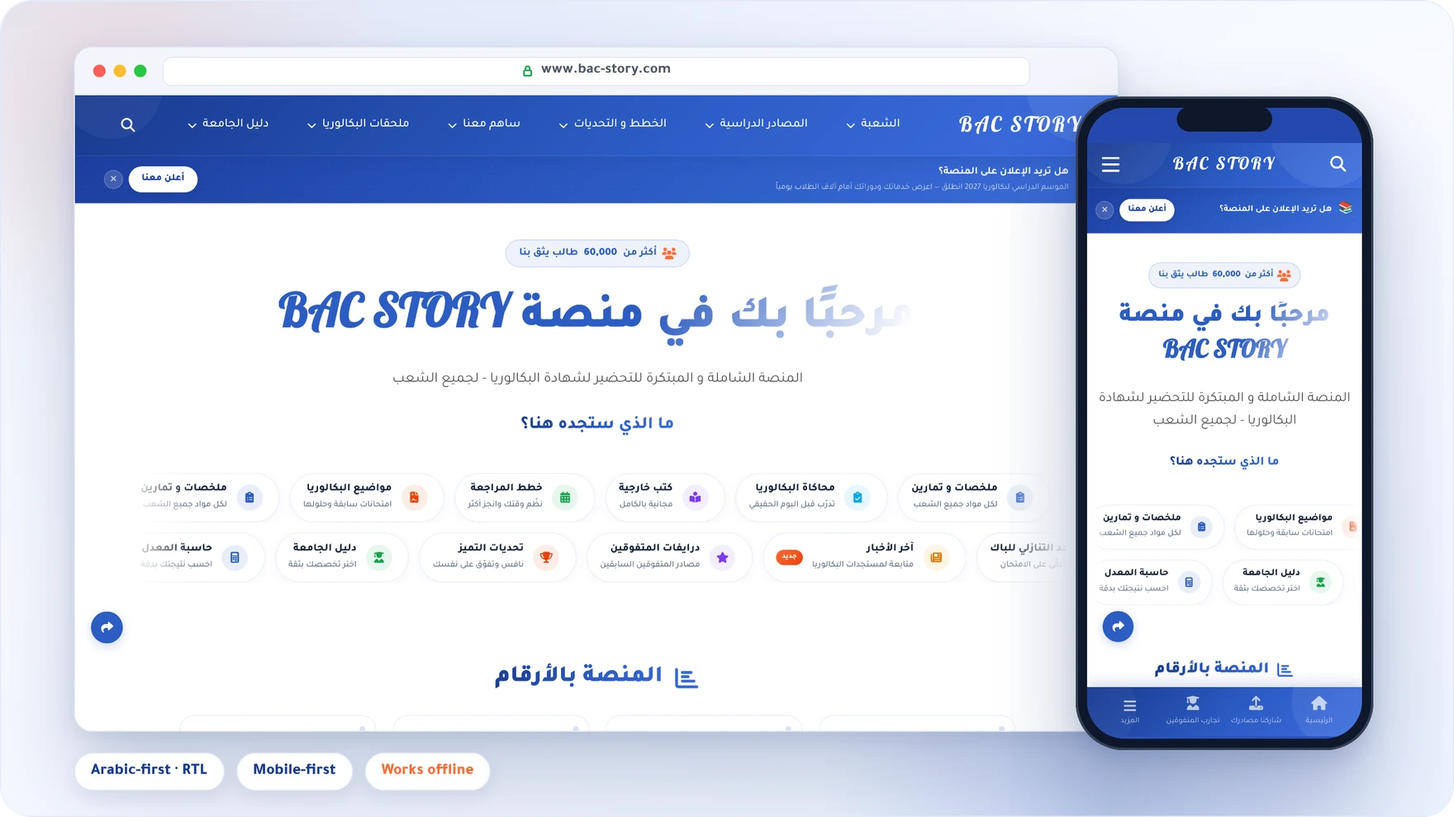
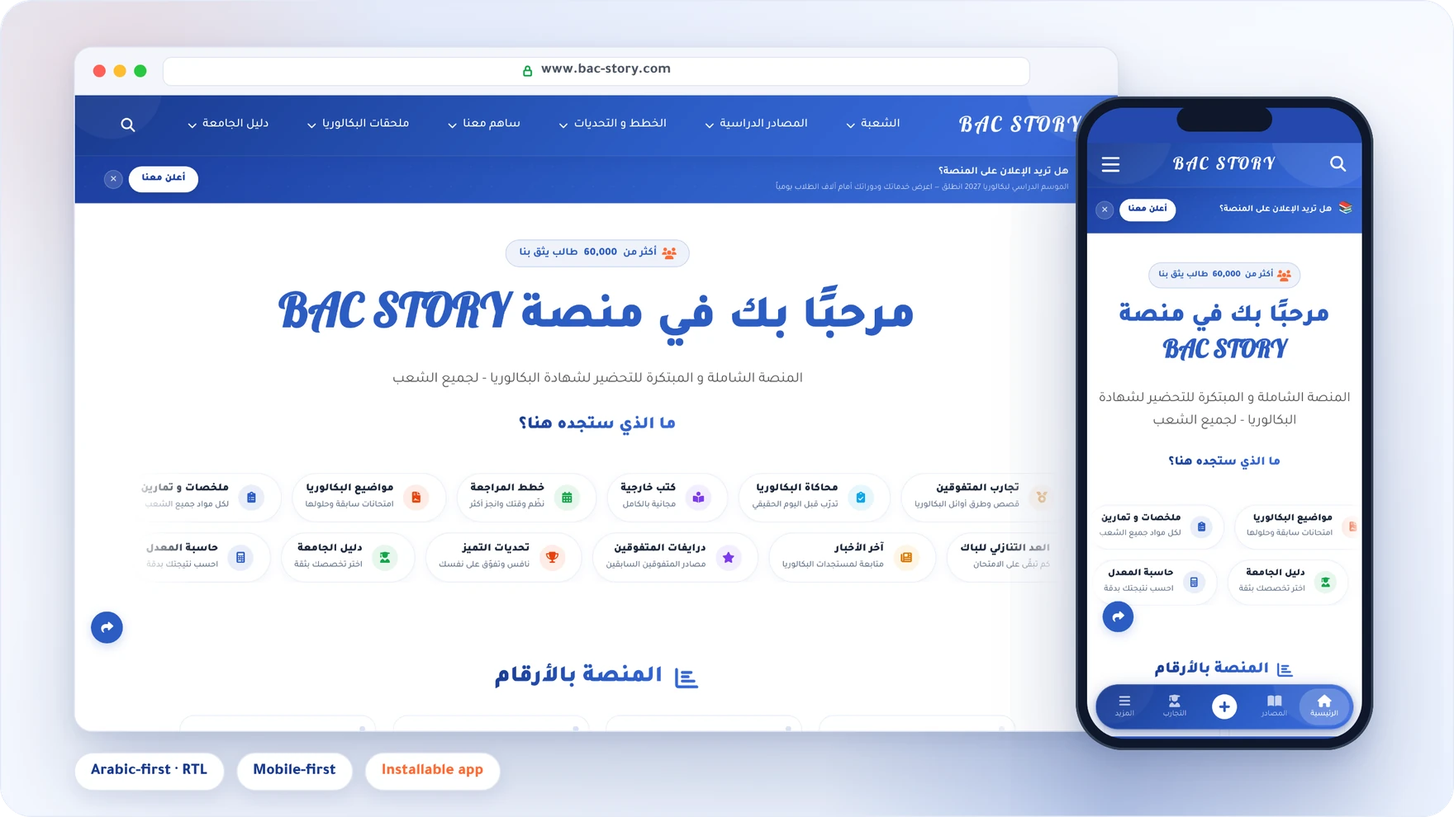
README: refreshed images and text after the performance work
- Banner: the BAC STORY wordmark is all white.
- Numbers card: redrawn in the site's own stats-card style, with current counts
  (2,681 pages, 2,553 in the sitemap, 2,695 search entries); now stats.webp (63 KB).
- Preview: new homepage screenshots with the new mobile bottom bar;
  tag "Installable app" instead of "Works offline".
- The image sources load the site's own font files (src/fonts.css), not Google Fonts.
- Text: no offline claim, fonts cached 1 year, hook also blocks Google Fonts,
  workflow listed, stamping step in the new-page checklist, 1,500+ resource pages,
  roadmap items for style.css and the Drive viewer.

Claude-Session: https://claude.ai/code/session_0157jKP8t2MP2FQraygW7T4S

diff --git a/.github/assets/src/stats.html b/.github/assets/src/stats.html
@@ -1,70 +1,73 @@
 <!doctype html>
-<!-- README "by the numbers" card. Rendered to ../stats.png (1280 wide at 2x, then 1760 wide). See README.md, "Maintaining this README"
-     Update the numbers here, then re-render. Sources: Search Console, GA4, Bing Webmaster Tools, repo. -->
+<!-- README "by the numbers" card. Rendered to ../stats.webp (1280 wide at 2x, then 1760 wide). See README.md, "Maintaining this README"
+     The tiles copy the site's own stats cards (.crc-stat in style.css: white card, light blue border,
+     gradient number, grey label, pulse dot). Update the numbers here, then re-render.
+     Sources: Search Console, GA4, Bing Webmaster Tools, repo. -->
 <html lang="en">
 <head>
 <meta charset="utf-8">
-<link rel="stylesheet" href="https://fonts.googleapis.com/css2?family=Tajawal:wght@400;500;700;800;900&family=Pattaya&display=swap">
+<link rel="stylesheet" href="fonts.css">
 <style>
-  :root { --blue-900:#142c6e; --blue-800:#1a3a8f; --blue-600:#2c5cc3; --blue-500:#3b6fd8; --orange:#ff6b35;
-          --ink:#1f2937; --muted:#6b7280; --line:#e6ebf5; --green:#16a34a; }
+  :root { --muted:#64748b; --line:rgba(44,92,197,.1); --green:#16a34a; }
   * { box-sizing: border-box; margin: 0; padding: 0; }
   html, body { width: 1280px; background: transparent; }
-  .card { width: 1280px; padding: 44px 48px 40px; border-radius: 28px; background: #ffffff;
-    border: 1px solid var(--line); font-family: 'Tajawal', sans-serif; color: var(--ink); position: relative; overflow: hidden; }
-  .card::before { content: ''; position: absolute; right: -90px; top: -120px; width: 300px; height: 300px; border-radius: 50%;
-    background: radial-gradient(circle, rgba(44,92,195,.10), rgba(44,92,195,0) 70%); }
-  .head { display: flex; align-items: baseline; justify-content: space-between; margin-bottom: 26px; }
-  .head h2 { font-size: 30px; font-weight: 900; color: var(--blue-800); letter-spacing: .2px; }
-  .head h2 .ar { font-weight: 800; color: var(--blue-600); margin-left: 12px; font-size: 26px; }
-  .head .date { font-size: 15px; font-weight: 700; color: var(--muted); padding: 7px 14px 6px; border-radius: 999px; background: #f3f6fc; border: 1px solid var(--line); }
-  .label { font-size: 13px; font-weight: 800; letter-spacing: 1.6px; text-transform: uppercase; color: var(--muted); margin: 6px 0 12px; display: flex; align-items: center; gap: 10px; }
-  .label::after { content: ''; flex: 1; height: 1px; background: var(--line); }
-  .grid { display: grid; grid-template-columns: repeat(4, 1fr); gap: 16px; margin-bottom: 22px; }
-  .grid:last-child { margin-bottom: 4px; }
-  .tile { position: relative; padding: 22px 22px 20px; border-radius: 20px; background: linear-gradient(180deg, #ffffff, #f7f9fe);
-    border: 1px solid var(--line); box-shadow: 0 8px 24px rgba(44,92,195,.08); }
-  .tile .icon { width: 40px; height: 40px; border-radius: 12px; display: grid; place-items: center; margin-bottom: 14px;
-    background: rgba(44,92,195,.10); color: var(--blue-600); }
-  .tile .icon svg { width: 22px; height: 22px; }
-  .tile.o .icon { background: rgba(255,107,53,.12); color: var(--orange); }
-  .num { font-size: 40px; font-weight: 900; color: var(--blue-800); line-height: 1; letter-spacing: -.5px; }
-  .tile.o .num { color: var(--orange); }
-  .txt { font-size: 16px; font-weight: 700; color: var(--ink); margin-top: 8px; }
-  .sub { font-size: 13.5px; font-weight: 500; color: var(--muted); margin-top: 3px; }
-  .up { position: absolute; top: 20px; right: 18px; font-size: 13px; font-weight: 800; color: var(--green);
-    background: rgba(22,163,74,.10); padding: 5px 9px 4px; border-radius: 999px; }
+  .card { width: 1280px; padding: 44px 48px 44px; border-radius: 28px; background: #f8faff;
+    border: 1px solid #e6ebf5; font-family: 'Tajawal', sans-serif; color: #1e293b; position: relative; overflow: hidden; }
+
+  /* section title, like the site's "المنصة بالأرقام" heading */
+  .head { display: flex; align-items: center; justify-content: space-between; margin-bottom: 30px; }
+  .title { display: flex; align-items: center; gap: 14px; }
+  .title svg { width: 34px; height: 34px; color: #2c5cc5; }
+  .title h2 { font-size: 34px; font-weight: 900; line-height: 1.25; padding-top: 4px;
+    background: linear-gradient(120deg, #1a3a8f 0%, #2c5cc5 50%, #3d6ee0 100%);
+    -webkit-background-clip: text; background-clip: text; color: transparent; }
+  .title .ar { margin-left: 12px; }
+  .date { font-size: 15px; font-weight: 700; color: var(--muted); padding: 7px 14px 6px; border-radius: 999px; background: #fff; border: 1.5px solid var(--line); }
+
+  .label { font-size: 13px; font-weight: 800; letter-spacing: 1.6px; text-transform: uppercase; color: var(--muted); margin: 4px 0 14px; display: flex; align-items: center; gap: 10px; }
+  .label::after { content: ''; flex: 1; height: 1px; background: #e2e8f4; }
+  .grid { display: grid; grid-template-columns: repeat(4, minmax(0, 1fr)); gap: 22px; margin-bottom: 26px; }
+  .grid:last-child { margin-bottom: 0; }
+
+  /* the site's .crc-stat card */
+  .stat { position: relative; overflow: hidden; text-align: center; padding: 34px 18px 28px; background: #fff;
+    border: 1.5px solid var(--line); border-radius: 20px; }
+  .stat::before { content: ''; position: absolute; top: 0; right: 8%; width: 40%; height: 100%;
+    background: linear-gradient(105deg, transparent 40%, rgba(44,92,197,.05) 50%, transparent 60%); }
+  .stat::after { content: ''; position: absolute; top: 14px; right: 14px; width: 8px; height: 8px; border-radius: 50%;
+    background: rgba(44,92,197,.18); }
+  .num { font-size: 45px; font-weight: 900; line-height: 1; padding: .15em 0; margin: -.15em 0 calc(8px - .15em);
+    background: linear-gradient(90deg, #1a3a8f, #2c5cc5, #3d6ee0, #2c5cc5, #1a3a8f); background-size: 200% 100%;
+    -webkit-background-clip: text; background-clip: text; color: transparent; font-variant-numeric: tabular-nums; }
+  .lbl { display: block; font-size: 15.5px; font-weight: 700; color: var(--muted); line-height: 1.4; }
+  .sub { display: block; font-size: 13px; font-weight: 500; color: #94a3b8; line-height: 1.4; margin-top: 4px; }
+  .up { color: var(--green); font-weight: 800; }
 </style>
 </head>
 <body>
 <div class="card">
   <div class="head">
-    <h2>By the numbers <span class="ar">المنصة بالأرقام</span></h2>
+    <div class="title">
+      <svg viewBox="0 0 24 24" fill="none" stroke="currentColor" stroke-width="2.4" stroke-linecap="round"><path d="M4 4v16h16"/><path d="M8 15v-3M12 15V8M16 15v-5"/></svg>
+      <h2>By the numbers <span class="ar">المنصة بالأرقام</span></h2>
+    </div>
     <span class="date">October 2026</span>
   </div>
 
   <div class="label">The platform</div>
   <div class="grid">
-    <div class="tile"><div class="icon"><svg viewBox="0 0 24 24" fill="none" stroke="currentColor" stroke-width="2" stroke-linecap="round" stroke-linejoin="round"><path d="M14 3H7a2 2 0 0 0-2 2v14a2 2 0 0 0 2 2h10a2 2 0 0 0 2-2V8z"/><path d="M14 3v5h5M9 13h6M9 17h6"/></svg></div>
-      <div class="num">2,678</div><div class="txt">HTML pages</div><div class="sub">2,552 indexable URLs in the sitemap</div></div>
-    <div class="tile o"><div class="icon"><svg viewBox="0 0 24 24" fill="none" stroke="currentColor" stroke-width="2" stroke-linecap="round" stroke-linejoin="round"><path d="M4 19.5V5a2 2 0 0 1 2-2h12v18H6a2 2 0 0 1-2-1.5z"/><path d="M8 7h6M8 11h6"/></svg></div>
-      <div class="num">7,300+</div><div class="txt">PDF documents</div><div class="sub">summaries, exams, books, solutions</div></div>
-    <div class="tile"><div class="icon"><svg viewBox="0 0 24 24" fill="none" stroke="currentColor" stroke-width="2" stroke-linecap="round" stroke-linejoin="round"><path d="M22 10 12 5 2 10l10 5 10-5z"/><path d="M6 12v5c3 2 9 2 12 0v-5"/></svg></div>
-      <div class="num">260</div><div class="txt">University guides</div><div class="sub">one page per speciality / school</div></div>
-    <div class="tile"><div class="icon"><svg viewBox="0 0 24 24" fill="none" stroke="currentColor" stroke-width="2" stroke-linecap="round" stroke-linejoin="round"><circle cx="11" cy="11" r="7"/><path d="m21 21-4.3-4.3"/></svg></div>
-      <div class="num">2,694</div><div class="txt">Search entries</div><div class="sub">instant Arabic-aware site search</div></div>
+    <div class="stat"><div class="num">2,681</div><span class="lbl">HTML pages</span><span class="sub">2,553 indexable URLs in the sitemap</span></div>
+    <div class="stat"><div class="num">7,300+</div><span class="lbl">PDF documents</span><span class="sub">summaries, exams, books, solutions</span></div>
+    <div class="stat"><div class="num">260</div><span class="lbl">University guides</span><span class="sub">one page per speciality / school</span></div>
+    <div class="stat"><div class="num">2,695</div><span class="lbl">Search entries</span><span class="sub">instant Arabic-aware site search</span></div>
   </div>
 
   <div class="label">Audience · last 28 days</div>
   <div class="grid">
-    <div class="tile"><span class="up">▲ 41%</span><div class="icon"><svg viewBox="0 0 24 24" fill="none" stroke="currentColor" stroke-width="2" stroke-linecap="round" stroke-linejoin="round"><path d="M3 17l6-6 4 4 8-8"/><path d="M14 7h7v7"/></svg></div>
-      <div class="num">42.6K</div><div class="txt">Google clicks</div><div class="sub">850K impressions · avg. position 5.5</div></div>
-    <div class="tile o"><div class="icon"><svg viewBox="0 0 24 24" fill="none" stroke="currentColor" stroke-width="2" stroke-linecap="round" stroke-linejoin="round"><circle cx="9" cy="8" r="4"/><path d="M2 21c0-4 3-6 7-6s7 2 7 6"/><path d="M16 4a4 4 0 0 1 0 8M22 21c0-3-2-5-4-5.6"/></svg></div>
-      <div class="num">32.6K</div><div class="txt">Visitors</div><div class="sub">62.5K sessions · 2m 29s each</div></div>
-    <div class="tile"><div class="icon"><svg viewBox="0 0 24 24" fill="none" stroke="currentColor" stroke-width="2" stroke-linecap="round" stroke-linejoin="round"><rect x="7" y="2" width="10" height="20" rx="2"/><path d="M11 18h2"/></svg></div>
-      <div class="num">82%</div><div class="txt">On mobile</div><div class="sub">96% of searches from Algeria</div></div>
-    <div class="tile"><div class="icon"><svg viewBox="0 0 24 24" fill="none" stroke="currentColor" stroke-width="2" stroke-linecap="round" stroke-linejoin="round"><path d="M12 3l2.5 5.5L20 9l-4 4 1 6-5-3-5 3 1-6-4-4 5.5-.5z"/></svg></div>
-      <div class="num">2,570</div><div class="txt">Pages on Google</div><div class="sub">+ 3,268 on Bing · cited by Copilot</div></div>
+    <div class="stat"><div class="num">42.6K</div><span class="lbl">Google clicks</span><span class="sub"><span class="up">▲ 41%</span> · 850K impressions · position 5.5</span></div>
+    <div class="stat"><div class="num">32.6K</div><span class="lbl">Visitors</span><span class="sub">62.5K sessions · 2m 29s each</span></div>
+    <div class="stat"><div class="num">82%</div><span class="lbl">On mobile</span><span class="sub">96% of searches from Algeria</span></div>
+    <div class="stat"><div class="num">2,570</div><span class="lbl">Pages on Google</span><span class="sub">+ 3,268 on Bing · cited by Copilot</span></div>
   </div>
 </div>
 </body>

diff --git a/.github/assets/src/fonts.css b/.github/assets/src/fonts.css
@@ -1,0 +1,12 @@
+/* The site's own font files, for rendering the README images (see README, "Maintaining this README"). */
+@font-face { font-family: 'Tajawal'; font-weight: 400; font-display: block; src: url(../../../fonts/tajawal/tajawal-arabic-400.woff2) format('woff2'); unicode-range: U+0600-06FF,U+0750-077F,U+08A0-08FF,U+FB50-FDFF,U+FE70-FEFC,U+200C-200E; }
+@font-face { font-family: 'Tajawal'; font-weight: 400; font-display: block; src: url(../../../fonts/tajawal/tajawal-latin-400.woff2) format('woff2'); unicode-range: U+0000-00FF,U+0131,U+0152-0153,U+02BB-02BC,U+02C6,U+02DA,U+02DC,U+2000-206F,U+20AC,U+2122,U+2191,U+2193,U+2212,U+2215,U+FEFF,U+FFFD; }
+@font-face { font-family: 'Tajawal'; font-weight: 500; font-display: block; src: url(../../../fonts/tajawal/tajawal-arabic-500.woff2) format('woff2'); unicode-range: U+0600-06FF,U+0750-077F,U+08A0-08FF,U+FB50-FDFF,U+FE70-FEFC,U+200C-200E; }
+@font-face { font-family: 'Tajawal'; font-weight: 500; font-display: block; src: url(../../../fonts/tajawal/tajawal-latin-500.woff2) format('woff2'); unicode-range: U+0000-00FF,U+0131,U+0152-0153,U+02BB-02BC,U+02C6,U+02DA,U+02DC,U+2000-206F,U+20AC,U+2122,U+2191,U+2193,U+2212,U+2215,U+FEFF,U+FFFD; }
+@font-face { font-family: 'Tajawal'; font-weight: 700; font-display: block; src: url(../../../fonts/tajawal/tajawal-arabic-700.woff2) format('woff2'); unicode-range: U+0600-06FF,U+0750-077F,U+08A0-08FF,U+FB50-FDFF,U+FE70-FEFC,U+200C-200E; }
+@font-face { font-family: 'Tajawal'; font-weight: 700; font-display: block; src: url(../../../fonts/tajawal/tajawal-latin-700.woff2) format('woff2'); unicode-range: U+0000-00FF,U+0131,U+0152-0153,U+02BB-02BC,U+02C6,U+02DA,U+02DC,U+2000-206F,U+20AC,U+2122,U+2191,U+2193,U+2212,U+2215,U+FEFF,U+FFFD; }
+@font-face { font-family: 'Tajawal'; font-weight: 800; font-display: block; src: url(../../../fonts/tajawal/tajawal-arabic-800.woff2) format('woff2'); unicode-range: U+0600-06FF,U+0750-077F,U+08A0-08FF,U+FB50-FDFF,U+FE70-FEFC,U+200C-200E; }
+@font-face { font-family: 'Tajawal'; font-weight: 800; font-display: block; src: url(../../../fonts/tajawal/tajawal-latin-800.woff2) format('woff2'); unicode-range: U+0000-00FF,U+0131,U+0152-0153,U+02BB-02BC,U+02C6,U+02DA,U+02DC,U+2000-206F,U+20AC,U+2122,U+2191,U+2193,U+2212,U+2215,U+FEFF,U+FFFD; }
+@font-face { font-family: 'Tajawal'; font-weight: 900; font-display: block; src: url(../../../fonts/tajawal/tajawal-arabic-900.woff2) format('woff2'); unicode-range: U+0600-06FF,U+0750-077F,U+08A0-08FF,U+FB50-FDFF,U+FE70-FEFC,U+200C-200E; }
+@font-face { font-family: 'Tajawal'; font-weight: 900; font-display: block; src: url(../../../fonts/tajawal/tajawal-latin-900.woff2) format('woff2'); unicode-range: U+0000-00FF,U+0131,U+0152-0153,U+02BB-02BC,U+02C6,U+02DA,U+02DC,U+2000-206F,U+20AC,U+2122,U+2191,U+2193,U+2212,U+2215,U+FEFF,U+FFFD; }
+@font-face { font-family: 'Pattaya'; font-weight: 400; font-display: block; src: url(../../../fonts/pattaya/pattaya-latin-400.woff2) format('woff2'); }

diff --git a/.github/assets/src/banner.html b/.github/assets/src/banner.html
@@ -3,7 +3,7 @@
 <html lang="en">
 <head>
 <meta charset="utf-8">
-<link rel="stylesheet" href="https://fonts.googleapis.com/css2?family=Tajawal:wght@400;500;700;800;900&family=Pattaya&display=swap">
+<link rel="stylesheet" href="fonts.css">
 <style>
   :root {
     --blue-900: #142c6e; --blue-800: #1a3a8f; --blue-600: #2c5cc3; --blue-500: #3b6fd8;
@@ -36,8 +36,6 @@
   .eyebrow .dot { width: 8px; height: 8px; border-radius: 50%; background: #3ddc84; box-shadow: 0 0 0 4px rgba(61,220,132,.22); }
   h1 { font-family: 'Pattaya', cursive; font-weight: 400; font-size: 96px; line-height: 1.05;
     margin-top: 18px; letter-spacing: 1px; text-shadow: 0 6px 24px rgba(10,25,70,.35); }
-  h1 .accent { background: linear-gradient(90deg, var(--orange) 0%, var(--orange-2) 100%);
-    -webkit-background-clip: text; background-clip: text; color: transparent; }
   .ar { font-size: 34px; font-weight: 800; direction: rtl; text-align: left; margin-top: 6px; opacity: .97; }
   .en { font-size: 19px; font-weight: 500; margin-top: 10px; color: rgba(255,255,255,.82); }
   .chips { display: flex; gap: 10px; margin-top: 26px; }
@@ -67,7 +65,7 @@
 
     <div class="content">
       <span class="eyebrow"><span class="dot"></span> bac-story.com &nbsp;·&nbsp; Live for BAC 2027</span>
-      <h1>BAC <span class="accent">STORY</span></h1>
+      <h1>BAC STORY</h1>
       <div class="ar">منصة التميز في البكالوريا</div>
       <div class="en">The free, all-in-one preparation platform for the Algerian Baccalaureate.</div>
       <div class="chips">

diff --git a/.github/assets/src/preview.html b/.github/assets/src/preview.html
@@ -5,7 +5,7 @@
 <html lang="en">
 <head>
 <meta charset="utf-8">
-<link rel="stylesheet" href="https://fonts.googleapis.com/css2?family=Tajawal:wght@500;700;800&display=swap">
+<link rel="stylesheet" href="fonts.css">
 <style>
   * { box-sizing: border-box; margin: 0; padding: 0; }
   html, body { width: 1280px; height: 720px; background: transparent; }
@@ -50,7 +50,7 @@
     <img class="shot" src="shots/desktop.png" alt="">
   </div>
   <div class="phone"><div class="notch"></div><div class="screen"><img src="shots/mobile.png" alt=""></div></div>
-  <div class="tag"><span>Arabic-first · RTL</span><span>Mobile-first</span><span class="o">Works offline</span></div>
+  <div class="tag"><span>Arabic-first · RTL</span><span>Mobile-first</span><span class="o">Installable app</span></div>
 </div>
 </body>
 </html>

diff --git a/README.md b/README.md
@@ -8,7 +8,7 @@
 
 [![Website](https://img.shields.io/badge/www.bac--story.com-live-2C5CC3?style=for-the-badge&logo=googlechrome&logoColor=white)](https://www.bac-story.com)
 [![Cloudflare Pages](https://img.shields.io/badge/Cloudflare-Pages-F38020?style=for-the-badge&logo=cloudflarepages&logoColor=white)](https://pages.cloudflare.com)
-[![PWA](https://img.shields.io/badge/PWA-installable-5A0FC8?style=for-the-badge&logo=pwa&logoColor=white)](#-performance--offline)
+[![PWA](https://img.shields.io/badge/PWA-installable-5A0FC8?style=for-the-badge&logo=pwa&logoColor=white)](#-performance--caching)
 [![Telegram](https://img.shields.io/badge/Telegram-@islembacdz-26A5E4?style=for-the-badge&logo=telegram&logoColor=white)](https://t.me/islembacdz)
 
 **Summaries · past exams with solutions · books · revision plans · BAC simulation · grade calculators · university guide**<br>
@@ -25,7 +25,7 @@ for all six streams of the Algerian Baccalaureate, in Arabic, free, on any phone
 
 <br>
 
-<img src=".github/assets/stats.png" alt="By the numbers, October 2026: 2,678 HTML pages (2,552 indexable URLs in the sitemap), 7,300+ PDF documents, 260 university guides, 2,694 search entries. Last 28 days: 42.6K Google clicks (up 41%), 850K impressions, 32.6K visitors, 82% on mobile, 96% of searches from Algeria, 2,570 pages on Google and 3,268 on Bing." width="100%">
+<img src=".github/assets/stats.webp" alt="By the numbers, October 2026: 2,681 HTML pages (2,553 indexable URLs in the sitemap), 7,300+ PDF documents, 260 university guides, 2,695 search entries. Last 28 days: 42.6K Google clicks (up 41%), 850K impressions, 32.6K visitors, 82% on mobile, 96% of searches from Algeria, 2,570 pages on Google and 3,268 on Bing." width="100%">
 
 <br>
 
@@ -35,10 +35,12 @@ for all six streams of the Algerian Baccalaureate, in Arabic, free, on any phone
 Baccalaureate. It puts everything a student needs in one place, organised by stream
 (شعبة) and subject, and it costs nothing to use.
 
-It is a **hand-built static site**: plain HTML, CSS and JavaScript, no framework and no build step.
+It is a **hand-built static site**: plain HTML, CSS and JavaScript, no framework and no bundler (one small script stamps
+cache versions before each commit).
 It is served from **Cloudflare's edge**, the study documents are streamed from **Google Drive**,
 the images come from **Cloudflare R2**, and a few **Pages Functions** handle the forms.
-The result is fast on a cheap phone and a mobile connection, and it keeps working offline.
+The result is fast on a cheap phone and a mobile connection, and it installs as an app.
+Repeat visits load styles, scripts and images from the device cache.
 
 <div align="center">
   <img src=".github/assets/preview.webp" alt="The BAC STORY homepage on a desktop browser and on a phone" width="100%">
@@ -55,7 +57,7 @@ The result is fast on a cheap phone and a mobile connection, and it keeps workin
 ### 📚 Study resources
 Summaries, exercises, mind maps and revision packs for every subject of every stream,
 with a built-in PDF viewer and one-tap download.<br>
-<sub>`/resources/{math,sci,tech,ge,le,lp}` · 1,240+ pages</sub>
+<sub>`/resources/{math,sci,tech,ge,le,lp}` · 1,500+ pages</sub>
 
 ### 📝 BAC exams archive
 Official BAC 2024, 2025 and 2026 papers with solutions, the channel's own trial exams,
@@ -64,7 +66,7 @@ older archives and monthly *excellence topics* (مواضيع التميز) with 
 
 ### 📖 Books
 External books (Bournane, Oqba Ibn Nafi and others) per stream and subject.<br>
-<sub>`/resources/books` · `/oqba` · 390 pages</sub>
+<sub>`/resources/books` · `/oqba` · 390+ pages</sub>
 
 ### 🧭 University guide
 260 speciality and school guides (*grandes écoles*, ENS, medicine, paramedical…),
@@ -179,7 +181,7 @@ flowchart LR
 ├── sitemap.xml  robots.txt            search engines
 ├── llms.txt  llms-full.txt            AI assistants (llmstxt.org)
 ├── search-index.json                  data for the site search
-├── manifest.json  sw.js               installable app and offline cache
+├── manifest.json  sw.js               installable app and asset cache
 ├── app-icon-*.png                     installed-app icons: rounded corners (any) + full-bleed Android versions (maskable)
 ├── fonts/fa/                          the site's own Font Awesome (only the icons it uses)
 ├── fonts/tajawal/  fonts/pattaya/     the text fonts (Google Fonts v12 files, OFL licences inside)
@@ -188,7 +190,9 @@ flowchart LR
 └── scripts/generate-sitemap.py        rebuilds sitemap.xml from the real pages
     scripts/build-fa-subset.py         rebuilds fonts/fa/ from the icons the pages use
     scripts/stamp-versions.py          sets every ?v= to the linked file's content hash
-    .githooks/pre-commit               refuses a commit with stale ?v= links
+    .githooks/pre-commit               refuses a commit with stale ?v= links or a Google Fonts link
+    .github/workflows/check-versions.yml  the same ?v= check on every push
+    .github/assets/src/                the README images (HTML sources)
 ```
 
 <br>
@@ -201,6 +205,7 @@ flowchart LR
 | **Type** | **Tajawal** for all Arabic UI · **Pattaya** for the *BAC STORY* wordmark · Font Awesome 6 icons. All served from `fonts/` (declared at the top of `style.css`), not Google Fonts; the calculator pages also use **Amiri** and **Cairo** from `fonts/amiri-cairo.css`. Tajawal comes in 400/500/700/900: `font-weight: 800` is drawn with the 900 face on purpose (as it always was); only `simulation.html` and `experiences.html` load a real 800. |
 | **Shape** | Rounded cards and pills (radius 8–18 px, pills 999 px), soft blue shadows, gradient hero blocks |
 | **Layout** | Right-to-left, mobile first, with a bottom tab bar on phones |
+| **App icon** | `app-icon-*.png`: rounded corners at 22.37 % of the width (the iOS app-icon shape) on a transparent background, so it looks the same on computers and phones; `app-icon-maskable-*.png` are full-bleed (logo at 80 %) for Android, which cuts its own shape |
 
 All tokens are CSS variables at the top of `style.css` (`--primary-color`, `--secondary-color`, `--radius-*`, `--shadow-*`).
 
@@ -254,12 +259,12 @@ All tokens are CSS variables at the top of `style.css` (`--primary-color`, `--se
 
 <br>
 
-## ✦ Performance & offline
+## ✦ Performance & caching
 
 | Asset | Browser cache |
 |---|---|
 | Site images (`png`, `jpg`, `webp`, `svg`…) | 1 year, `immutable` |
-| Font Awesome (`fonts/fa/`) | 1 year, `immutable` (versioned by `build-fa-subset.py`) |
+| Fonts (`fonts/`: Font Awesome, Tajawal, Pattaya, Amiri, Cairo) | 1 year, `immutable` (a changed font gets a new file name or `?v=`) |
 | CSS, JS, navbar/footer/search, `search-index.json` | 1 week (every link carries `?v=<content hash>`) |
 | HTML pages | always revalidated, so new content shows at once |
 | `sw.js` | never cached |
@@ -267,6 +272,41 @@ All tokens are CSS variables at the top of `style.css` (`--primary-color`, `--se
 The **service worker** (`sw.js`) never touches page navigations. It caches CSS, JS, images and
 components the first time a page uses them, serves them from that cache afterwards and refreshes
 them in the background. That makes repeat visits instant and helps on a weak connection.
+
+- Nothing is downloaded in advance (no precache list): files are cached when a page first asks for them.
+- When a new `?v=` version of a file is cached, the older versions of that file are deleted, so the
+  cache keeps one copy per file.
+- `/api/` and `search-index.json` (1.8 MB, only fetched when someone searches) are left to the browser.
+- After changing `sw.js` itself, raise `CACHE_NAME` (`bac-story-v34` → `v35`): the old cache is then deleted.
+
+> [!CAUTION]
+> **Images and fonts are cached for a year and never re-checked.** To change one, give the new file
+> a **new name** (as the app icons did: `icon-192.png` → `app-icon-192.png`) and add a `301` from the
+> old name in `_redirects`. Overwriting a file under the same name leaves visitors with the old one.
+
+### Layout stability and animations
+
+These rules took the desktop homepage from CLS 0.39 to 0.04 and the mobile one from 0.26 to 0.001.
+Keep them when changing the shared parts:
+
+| Rule | Where |
+|---|---|
+| The ad strip's height (52 px) is reserved from the first paint (`body` padding 127 px = navbar 75 + strip 52). When no strip is shown, `html.ad-strip-off` gives the room back. Change `AD_H` in `shared.js` and the padding together. | `style.css`, `shared.js` `injectAdStrip`, the inline loader script |
+| The homepage feature cards stay hidden until the fonts are ready (`.fonts-ok`, 3 s at the latest), so the ticker doesn't jump when Tajawal arrives. | `index.html` |
+| Gradient text (`background-clip: text`) gets `padding: .15em 0; margin: -.15em 0 …` so the tops of the digits and Arabic letters aren't cut off on iPhone. | `.crc-stat-num` and similar in `style.css` |
+| Animations move with `transform` (`translateX`, `scaleX`) and `opacity` only, never `width`/`left`/`right`, so they run on the GPU. | `style.css` |
+| Endless background effects (title shine, stats gradient, skeleton cards) are paused while the loader covers the screen. | `body:has(> #page-loader:not(.loader-hiding))` in `style.css` |
+
+<details>
+<summary><b>Tried and dropped</b> (measured, made things worse)</summary>
+<br>
+
+- **Preloading the font files**: they competed with `style.css` and delayed the first paint on mobile.
+- **Inlined critical CSS with `style.css` loaded later** (branch `perf-a`): faster first paint, but the
+  navbar and section headers then appeared after the content and moved it (CLS 0.24–0.31 on PDF pages).
+- **Delaying Google Tag Manager**: not done, Analytics must see every visit.
+
+</details>
 
 > [!IMPORTANT]
 > After editing any CSS, JS, `navbar.html` / `footer.html` / `search.html` or `search-index.json`,
@@ -321,7 +361,9 @@ python scripts/build-fa-subset.py
 3. Link to it from its parent page with a real `<a href>` (not `onclick`).
 4. Add it to `search-index.json` so the site search finds it.
 5. Run `scripts/generate-sitemap.py`, and add it to `llms.txt` if it is a main page.
+   Don't add a Google Fonts link: the fonts come from `style.css` (the pre-commit hook refuses it).
 6. If it replaces an old URL, add a `301` in `_redirects` (exact rules above the wildcard section).
+7. Run `python3 scripts/stamp-versions.py` before committing (the pre-commit hook checks it).
 
 </details>
 
@@ -329,13 +371,15 @@ python scripts/build-fa-subset.py
 <summary><b>Maintaining this README</b></summary>
 <br>
 
-The banner, the numbers card and the preview are HTML files in `.github/assets/src/`, rendered with the
-site's real fonts:
+The banner, the numbers card and the preview are HTML files in `.github/assets/src/`. They load the
+site's own font files through `src/fonts.css` (no Google Fonts), and the numbers card reuses the
+site's stats-card style (`.crc-stat`):
 
 1. Edit `banner.html`, `stats.html` or `preview.html` (refresh the numbers from Search Console and Analytics).
-2. For `preview.html`, take two screenshots of the homepage at 2× into `src/shots/`: `desktop.png` (1440×900) and `mobile.png` (390×844).
+2. For `preview.html`, take two screenshots of the homepage at 2× into `src/shots/`: `desktop.png` (1440×900) and `mobile.png` (390×844),
+   with the loader gone, popups closed and the title's looping shine (`.shiny-text`) stopped, so the whole title shows. `src/shots/` is in `.gitignore`: only the rendered images are committed.
 3. Render the `.banner`, `.card` or `.stage` element at 2× (for example with Playwright), resize to 1760 px wide, and save it as
-   `banner.webp`, `stats.png` and `preview.webp` in `.github/assets/`.
+   `banner.webp`, `stats.webp` and `preview.webp` in `.github/assets/`.
 
 </details>
 
@@ -349,6 +393,8 @@ site's real fonts:
 - [ ] Check `page_view` counting on multi-section pages (`/university` shows about 37 views per visitor)
 - [ ] Earn real backlinks from education sites and partners
 - [ ] Compress the heaviest university photos
+- [ ] Split `style.css` (330 KB) per page type, so a page downloads only the styles it uses
+- [ ] Load the Google Drive viewer after the page has loaded, to speed up the PDF pages on phones
 
 <br>
 
